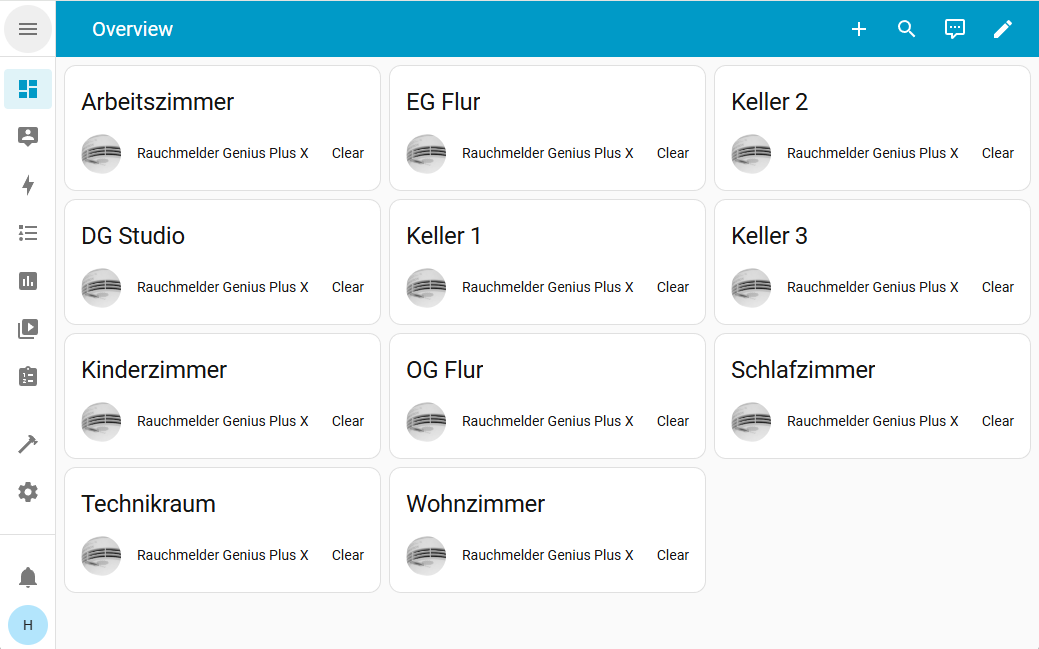
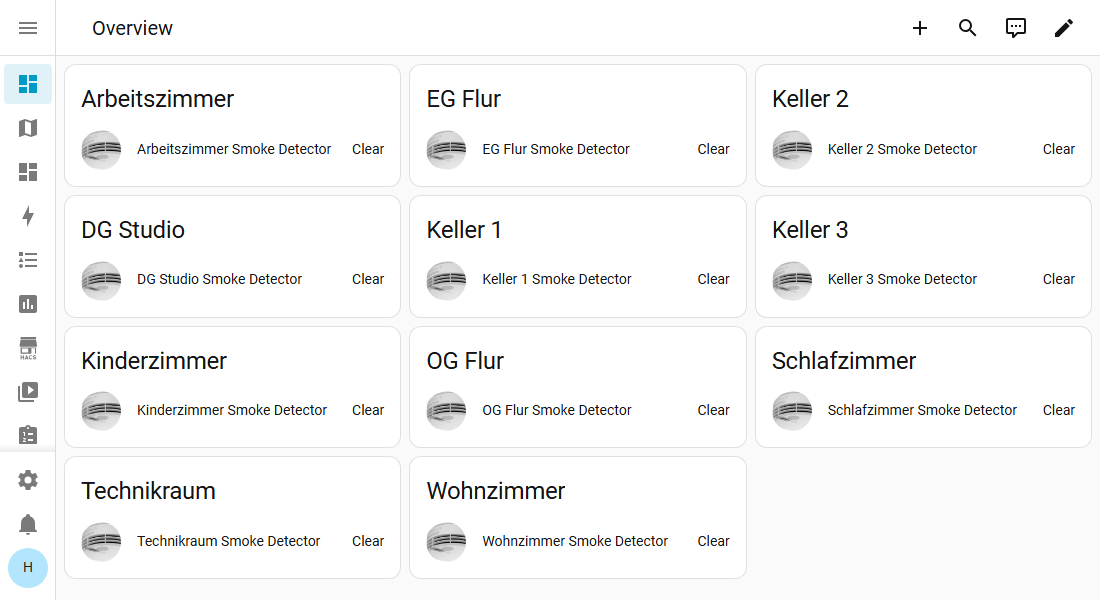
docs: renew the Home Assistant overview and smoke sensor screenshots
Both still showed the naming of late 2025 (device "Rauchmelder", entity
"Genius Plus X"). The smoke sensor view now shows the current state and
history without an alarm; the caption says so.

diff --git a/docs/features/smart-home-integration.md b/docs/features/smart-home-integration.md
@@ -315,12 +315,12 @@ All other diagnostic entities show as **unavailable** until the first acoustic r
 **Overview Dashboard**
 
 ![Multiple smoke detectors displayed in Home Assistant's overview dashboard showing their online status and locations](../assets/images/doc/ha/ha-overview.png)
-*Multiple Genius Plus X smoke detectors automatically discovered and displayed with their configured locations*
+*Genius Plus X smoke detectors on a Home Assistant dashboard, one card per area*
 
 **Detector Detail View**
 
-![Individual smoke detector detail page showing alarm state, device information, and entity controls](../assets/images/doc/ha/ha-details-detecting.png)
-*Detailed view of a single detector showing real-time alarm state, manufacturer information, model, and serial number*
+![Smoke sensor of a single smoke detector with its state history and activity](../assets/images/doc/ha/ha-detector-smoke-sensor.png)
+*Smoke sensor of a single detector: current state (here Clear, no smoke), history and activity; the device page behind it shows manufacturer, model and serial number*
 
 **Device Information**
 
